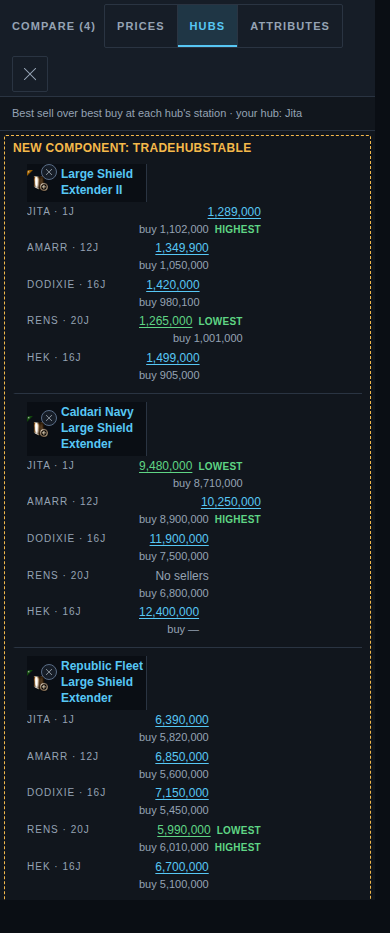
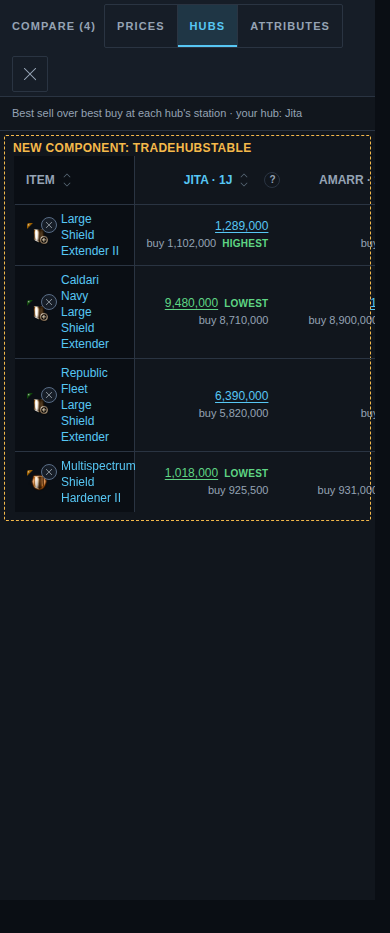
docs(mockups): Trade hubs stays a table on phone; mark chosen (#4696)

diff --git a/src/mockups/compareTradeHubsParts.tsx b/src/mockups/compareTradeHubsParts.tsx
@@ -117,11 +117,9 @@ function TradeHubCell({ row, hub, loading }: { row: HubRow; hub: TradeHub; loadi
 export function TradeHubsTable({
   items,
   loadingHubs = [],
-  narrow = false,
 }: {
   items: readonly SampleCompareItem[];
   loadingHubs?: readonly HubId[];
-  narrow?: boolean;
 }) {
   const loading = new Set(loadingHubs);
   const rows: HubRow[] = items.map((item) => {
@@ -168,7 +166,9 @@ export function TradeHubsTable({
         rows={rows}
         rowKey={(row) => row.typeId}
         label="Compare at trade hubs"
-        responsive={narrow ? 'stack' : 'table'}
+        // A compare table at every width, as Prices: on a phone it scrolls
+        // sideways with the item column pinned.
+        responsive="table"
       />
     </NewComponent>
   );
@@ -215,7 +215,7 @@ export function ProposedCompareDrawer({
               label="Compare view"
               options={[
                 { value: 'prices', label: 'Prices' },
-                // Three options overflow a 390px header: the phone says "Hubs".
+                // "Trade hubs" pushes Attributes off a 390px header: the phone says "Hubs".
                 { value: 'hubs', label: fullScreen ? 'Hubs' : 'Trade hubs' },
                 { value: 'attributes', label: 'Attributes' },
               ]}
@@ -248,7 +248,7 @@ export function ProposedCompareDrawer({
             <p className="border-b border-line bg-panel-2 px-3 py-2 text-xs text-warning">{note}</p>
           )}
           <div className="overflow-x-auto p-1">
-            <TradeHubsTable items={items} loadingHubs={loadingHubs} narrow={fullScreen} />
+            <TradeHubsTable items={items} loadingHubs={loadingHubs} />
           </div>
         </div>
       </section>

diff --git a/src/mockups/CompareTradeHubs.stories.tsx b/src/mockups/CompareTradeHubs.stories.tsx
@@ -88,7 +88,7 @@ export const Proposed: Story = {
   ),
 };
 
-/** @summary Proposed on a phone: one card per item, one labelled line per hub. */
+/** @summary Proposed on a phone: a table like Prices, scrolling sideways with the item column pinned. */
 export const ProposedPhone: Story = {
   globals: PHONE,
   parameters: { shell: shell(seedProposed) },

diff --git a/docs/design/mockups/compare-trade-hubs/README.md b/docs/design/mockups/compare-trade-hubs/README.md
@@ -7,15 +7,17 @@ New component: `TradeHubsTable`, a `DataTable` with one `TradeHubCell` per hub. 
 | | 1440 | 390 |
 |---|---|---|
 | Today (Prices, priced at one hub) | ![](today-desktop.png) | ![](today-phone.png) |
-| Proposed (Trade hubs) | ![](proposed-desktop.png) | ![](proposed-phone.png) |
+| Proposed (Trade hubs), **chosen** | ![](proposed-desktop.png) | ![](proposed-phone.png) |
 | Open question: one item in the set | ![](single-item-desktop.png) | |
 
 ## What the proposal shows
 
+**Chosen (Shawn):** the desktop view as shown; a table at every width; own hub highlighted.
+
 - **Layout.** Rows are Compare Set items and columns are the five Trade Hubs in `TRADE_HUBS` order. Each cell shows best sell, with `buy <best buy>` dim beneath it, as exact market figures. Compact "1.3M" figures hid the hub differences that are the point of this view.
 - **Cell link.** The best-sell figure is the cell's one link (DESIGN §6c figure link: accent, solid underline). It opens the Market browser at that item and hub.
 - **Row highlights.** The row's lowest sell and highest buy are green and carry the words LOWEST / HIGHEST, so colour isn't the only cue. A hub that's still loading is left out of that comparison.
-- **Hub headers.** Each reads `Amarr · 12j` (jumps from the pilot), with the full wording in the header tooltip. The pilot's own Market hub has an accent header and is named in the drawer subtitle ("your hub: Jita").
+- **Hub headers, own hub highlighted (chosen).** Each reads `Amarr · 12j` (jumps from the pilot), with the full wording in the header tooltip. The pilot's own Market hub has an accent header and is named in the drawer subtitle ("your hub: Jita").
 - **Empty and loading cells.** "No sellers" when a hub has buy orders only; `buy —` when it has no buy orders; `…` while a hub's books load (Hek in the desktop shot).
-- **Phone.** The full-screen sheet as today. The table stacks into one card per item, with each hub as a labelled line. The view switch says "Hubs" because three long labels overflow 390px.
+- **Phone (chosen): a table at every width.** Like today's Prices view (`responsive="table"`), the full-screen sheet keeps the table and scrolls sideways with the item column pinned. The view switch says "Hubs" because "Trade hubs" pushes Attributes off a 390px header.
 - **Open question.** The item's Compare button only adds to the set. The proposal is that with one item in the set, opening the drawer lands on Trade hubs, since Prices for a single item compares nothing.

diff --git a/docs/design/mockups/README.md b/docs/design/mockups/README.md
@@ -25,6 +25,6 @@ PNG exports of the chosen mockups for ready tickets. Delete a folder (and its ro
 | [collector-books](collector-books/README.md) | Spec #4504 (UI: #4512, #4513, #4514, #4520) | List A (sortable Moon owners table) for the accounting corporation, Page B (plain statement first) for the moon owner |
 | [corp-projects](corp-projects/README.md) | Issue #4530 | Industry › Projects as the fifth tab; summary strip, chips, read-only table; grant and empty states |
 | [fittings-restock](fittings-restock/README.md) | Issue #4550 | Appraisal's card title becomes a source select (Paste / From my Fittings); Fittings with hull-count steppers; Send to Build Group… in the actions menu; Appraise and Clear inline on phone |
-| [compare-trade-hubs](compare-trade-hubs/README.md) | Issue #4696 (build: #4697) | Proposed: third Compare view "Trade hubs", items × hubs, best sell over best buy, LOWEST/HIGHEST words, jumps in headers; awaiting Shawn's pick |
+| [compare-trade-hubs](compare-trade-hubs/README.md) | Issue #4696 (build: #4697) | Desktop as proposed (items × hubs, best sell over best buy, LOWEST/HIGHEST words, jumps in headers); table at every width (phone scrolls sideways, item pinned, "Hubs" label); own hub highlighted |
 
 First draft mockup; sample data. The ticket's Agent Brief text wins over the picture where they differ.
